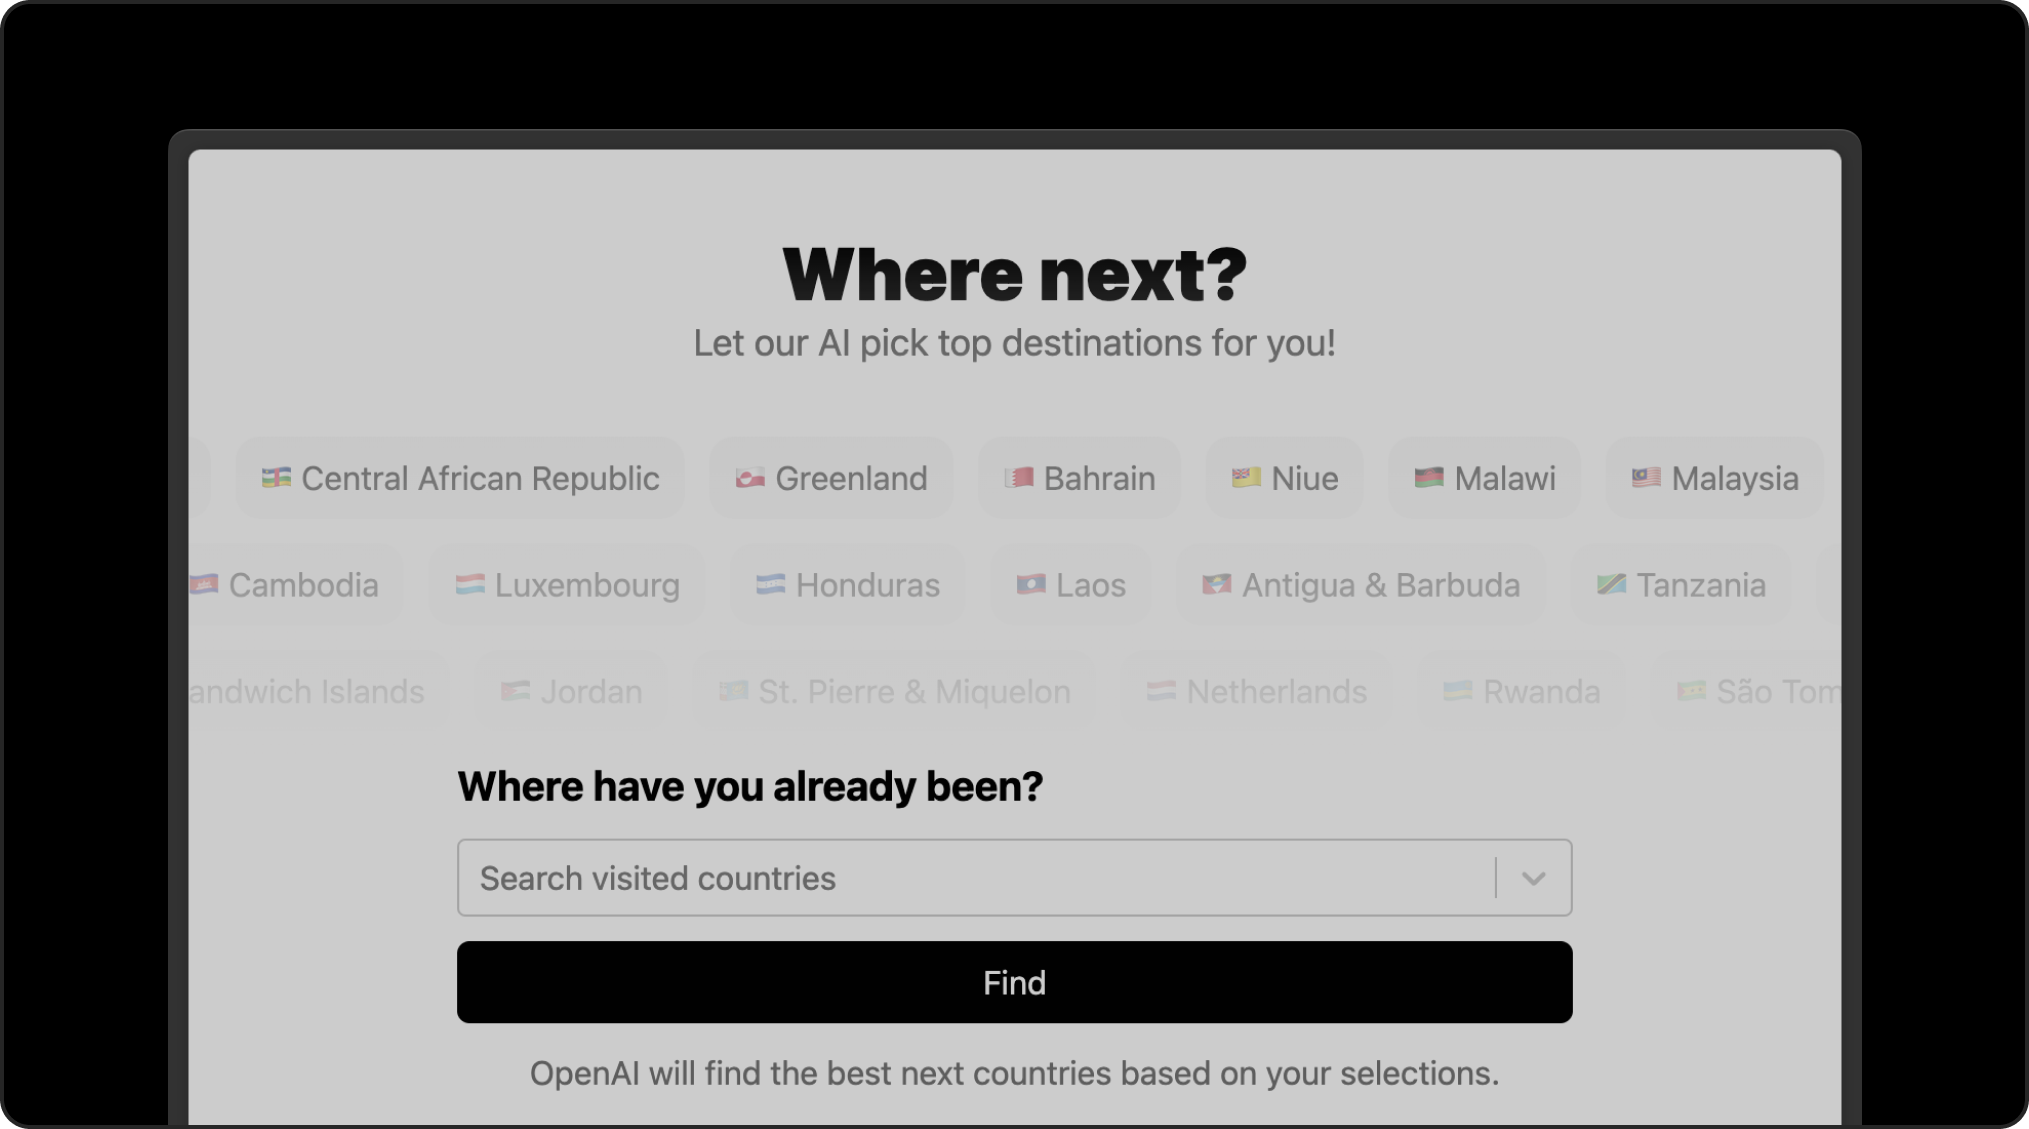
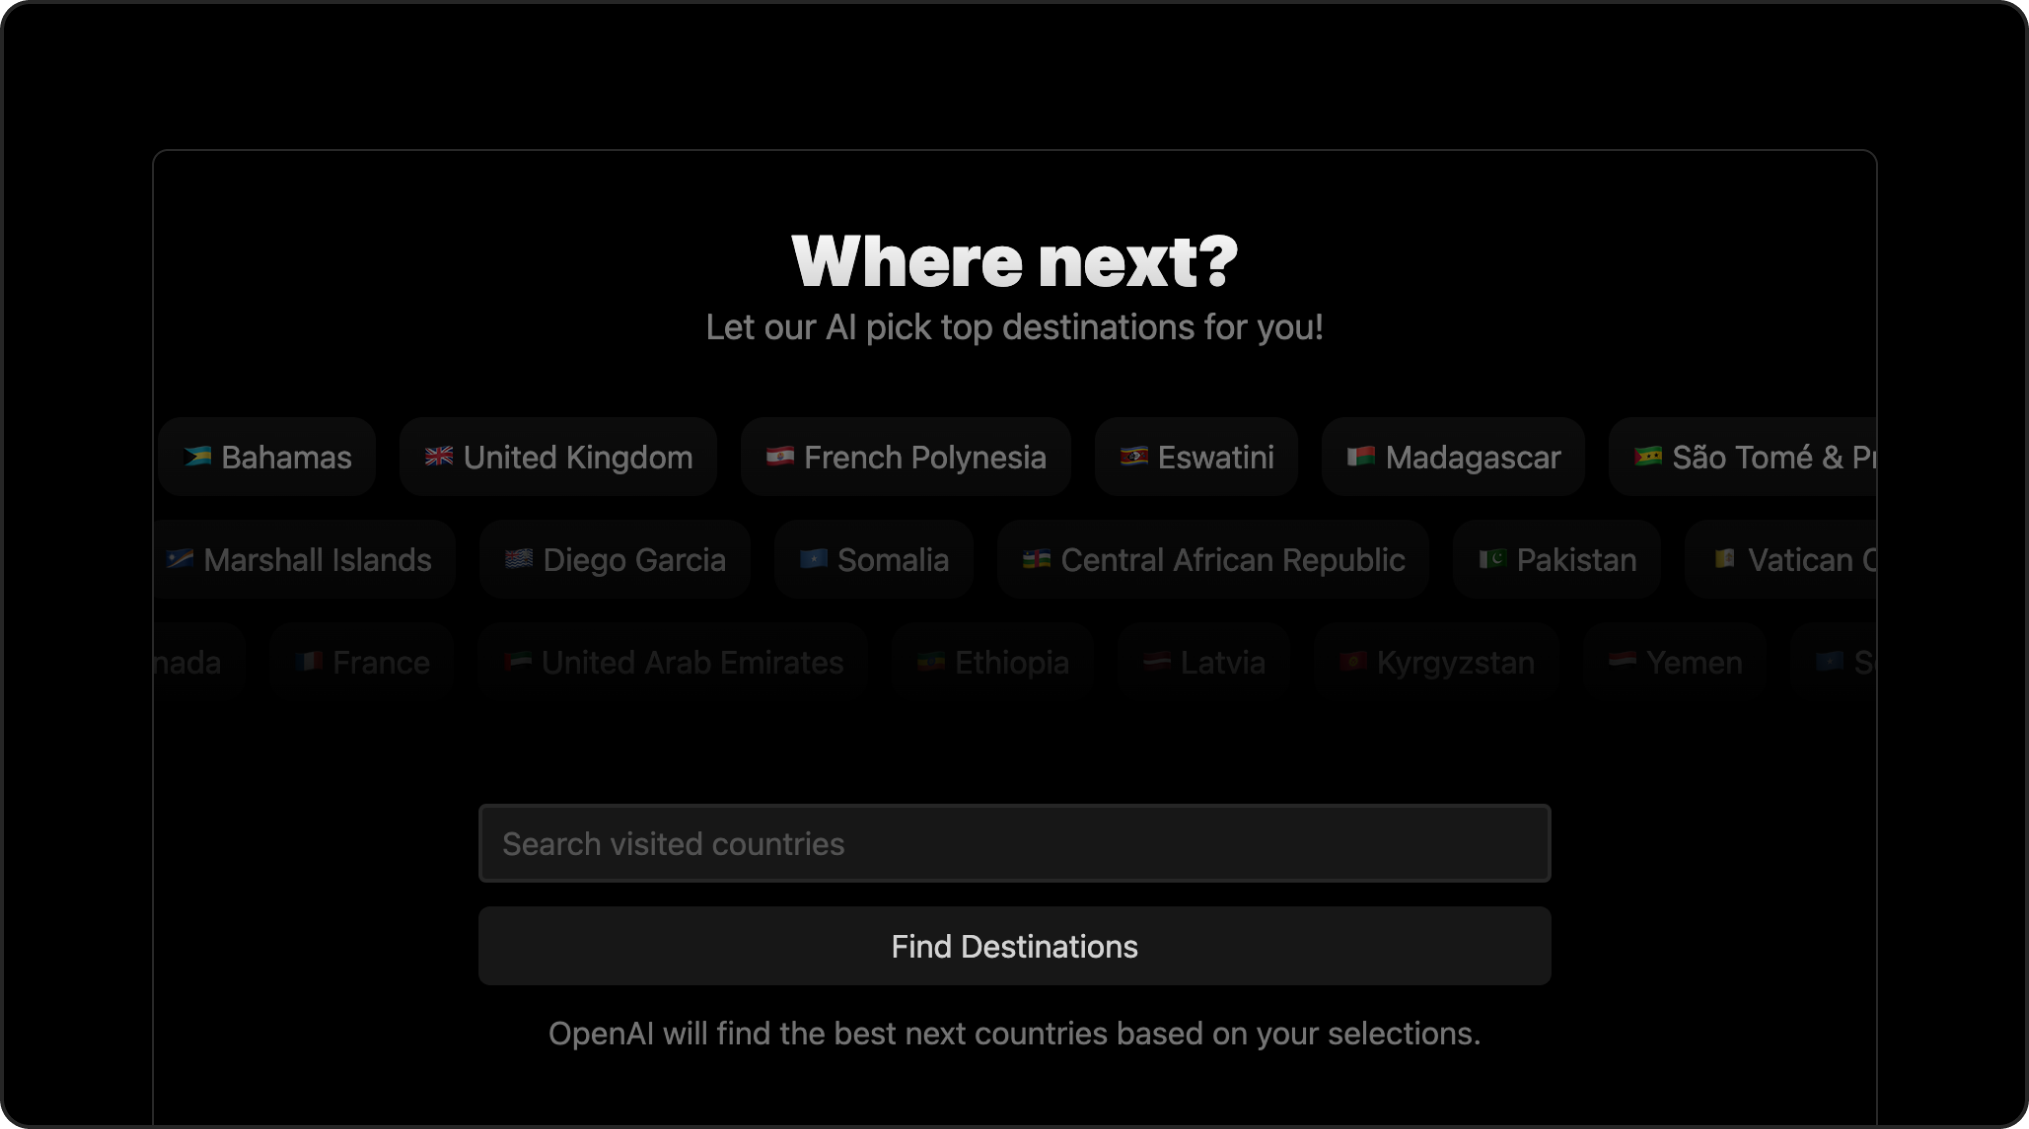
add layout

diff --git a/src/utils/read-writings.js b/src/utils/read-writings.js
@@ -1,44 +1,22 @@
-import path from "path";
 import fs from "fs";
-import { sync } from "glob";
+import path from "path";
 import matter from "gray-matter";
 
-const POSTS_PATH = path.join(process.cwd(), "writings");
+export const getWritings = () => {
+  const dirFiles = fs.readdirSync(
+    path.join(process.cwd(), "pages", "writings")
+  );
 
-export const getSlugs = () => {
-  const paths = sync(`${POSTS_PATH}/*.mdx`);
+  return dirFiles
+    .map((file) => {
+      const fileContent = fs.readFileSync(
+        path.join(process.cwd(), "pages", "writings", file.name),
+        "utf-8"
+      );
+      const { data, content } = matter(fileContent);
 
-  return paths.map((path) => {
-    const parts = path.split("/");
-    const fileName = parts[parts.length - 1];
-    const [slug] = fileName.split(".");
-    return slug;
-  });
-};
-
-export const getPosts = () => {
-  return getSlugs()
-    .map((slug) => getPostFromSlug(slug))
-    .sort((a, b) => {
-      if (a.meta.date > b.meta.date) return 1;
-      if (a.meta.date < b.meta.date) return -1;
-      return 0;
+      const slug = file.name;
+      return { data, content, slug };
     })
-    .reverse()
-    .map((post) => post.meta);
-};
-
-export const getPostFromSlug = (slug) => {
-  const postPath = path.join(POSTS_PATH, `${slug}.mdx`);
-  const source = fs.readFileSync(postPath);
-  const { content, data } = matter(source);
-
-  return {
-    content,
-    meta: {
-      slug,
-      title: data.title ?? slug,
-      date: (data.date ?? new Date()).toString(),
-    },
-  };
+    .filter((writing) => writing);
 };

diff --git a/src/components/writings/index.js b/src/components/writings/index.js
@@ -1,6 +1,6 @@
 function Heading({ children }) {
   return (
-    <h2 className='mt-12 first:mt-0 mb-4 text-lg text-neutral-300'>
+    <h2 className='mt-10 first:mt-0 mb-4 text-lg text-neutral-300'>
       {children}
     </h2>
   );

diff --git a/src/styles/global.css b/src/styles/global.css
@@ -22,6 +22,10 @@ html {
   animation-fill-mode: both;
 }
 
+body {
+  background: #000;
+}
+
 @font-face {
   font-family: "Untitled Sans";
   font-style: normal;
